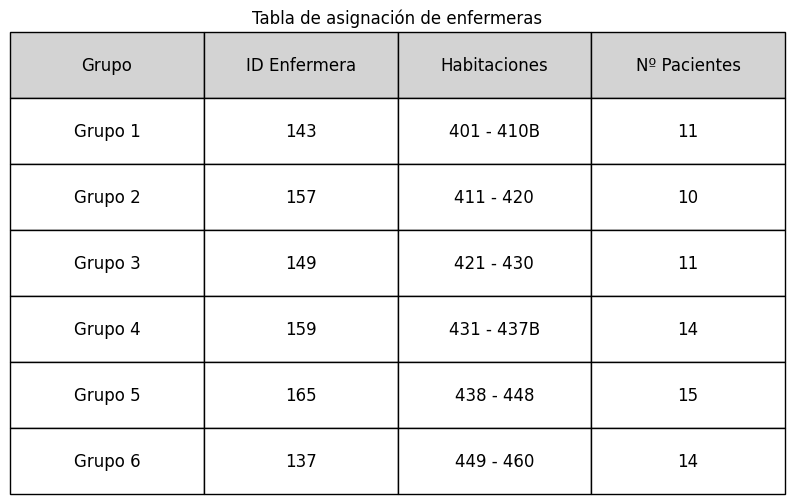
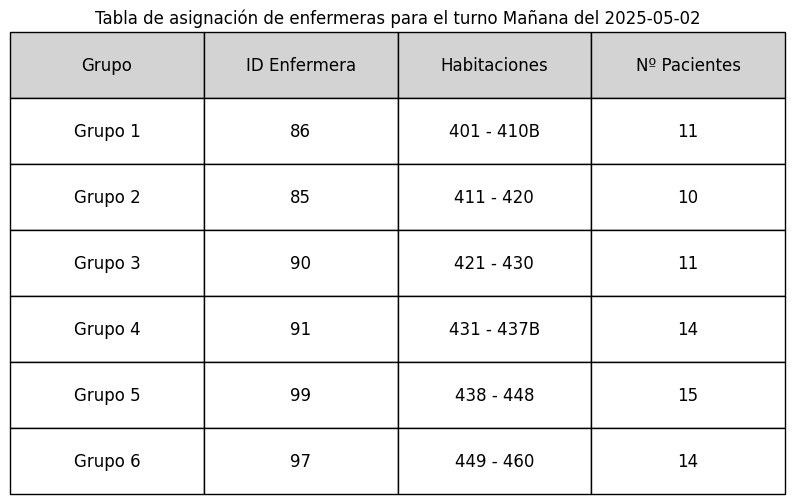
finished interface

diff --git a/hus_project/templates/assignation.html b/hus_project/templates/assignation.html
@@ -4,15 +4,15 @@
 <head>
     <meta charset="UTF-8">
     <meta name="viewport" content="width=device-width, initial-scale=1.0">
-    <title>HUS</title>
+    <title>Asignación Enfermería HUS</title>
     <link rel="stylesheet" href="{% static 'css/styles.css' %}">
 </head>
 <body>
     <main>
         <section class="content">
-            <h1>Resultados de la asignación de enfermeras</h1>
-            <div class="container" style="flex-grow: 1;">
-                <p id="loading" class="loading">Procesando para {{selected_shift}} {{selected_date}}, por favor espere...</p>
+            <h1 id="title" class="hidden">Resultados de la asignación de enfermeras</h1>
+            <div class="container">
+                <p id="loading" class="loading">Procesando para el turno de <b>{{selected_shift}} {{selected_date}}</b>, por favor espere...</p>
                 <img src="{% static 'img/loading.gif' %}" alt="loadingImg" />
             </div>
             <div class="flex-container">
@@ -25,9 +25,6 @@
             </div>
         </section>
     </main>
-    <footer>
-        <p>&copy; 2025 Sistema de Asignación de Enfermeras</p>
-    </footer>
     <script>
         const selectedDate = "{{ selected_date }}";
         const selectedShift = "{{ selected_shift }}";
@@ -40,23 +37,24 @@
                 const loadingImg = document.querySelector('img[alt="loadingImg"]');
                 const image1 = document.getElementById('distributionImg');
                 const image2 = document.getElementById('tableImg');
+                const title = document.getElementById('title');
     
                 if (loading) loading.remove();
                 if (loadingImg) loadingImg.remove();
     
-                const timestamp = new Date().getTime();
+                const timestamp = new Date().getTime(); 
     
                 image1.src = `{% static 'img/rooms.png' %}?t=${timestamp}`;
                 image2.src = `{% static 'img/table.png' %}?t=${timestamp}`;
     
                 image1.style.display = 'block';
-                image2.style.display = 'block';
+                image2.style.display = 'block';                
+                if (title) title.style.display = 'block';
             })
             .catch(error => {
-                document.querySelector('.container').innerHTML = "<p style='color:red;'>Failed to load data.</p>";
+                document.querySelector('.container').innerHTML = "<p style='color:red;'>Error durante el procesamiento.</p>";
                 console.error('Error:', error);
             });
     </script>
-    
 </body>
 </html>

diff --git a/hus_project/templates/index.html b/hus_project/templates/index.html
@@ -4,29 +4,32 @@
 <head>
     <meta charset="UTF-8">
     <meta name="viewport" content="width=device-width, initial-scale=1.0">
-    <title>HUS</title>
+    <title>Asignación Enfermería HUS</title>
     <link rel="stylesheet" href="{% static 'css/styles.css' %}">
 </head>
 <body>
     <main>
         <section class="indexContent">
+            <div class="image-wrapper image-logo">
+                <img id="logo" src="{% static 'img/logo_sureste.png' %}">
+            </div>
             <h2>Asignación de enfermeras</h2>
             <form action="{% url 'assignation' %}" method="post">
                 {% csrf_token %}
-                <label for="date">Seleccione la fecha:</label>
+                <label for="date">Selecione la fecha:</label>
                 <input type="date" id="date" name="date" value="{{ current_date }}" required>
-                <label for="shift">Selecione el Turno:</label>
+                <label for="shift">Selecione el turno:</label>
                 <select id="shift" name="shift" required>
                     <option value="Mañana" {% if current_shift == "M" %}selected{% endif %}>Mañana</option>
                     <option value="Tarde" {% if current_shift == "T" %}selected{% endif %}>Tarde</option>
                     <option value="Noche" {% if current_shift == "N" %}selected{% endif %}>Noche</option>
                 </select>
-                <button type="submit" class="btn">Iniciar Asignación</button>
+                <button type="submit" class="btn">Iniciar Reparto</button>
             </form>
         </section>
     </main>
     <footer>
-        <p>&copy;2025 Sistema de Asignación de Enfermeras</p>
+        <p>&copy;2025 Hospital Universitario del Sureste</p>
     </footer>
 </body>
 </html>

diff --git a/hus_project/static/css/styles.css b/hus_project/static/css/styles.css
@@ -3,7 +3,7 @@ body, html {
     height: 100%;
     margin: 0;
     font-family: Arial, sans-serif;
-    background-color: #f8f9fa;
+    background-color: #e4e7eb;
 }
 
 main {
@@ -29,32 +29,35 @@ main {
     border-radius: 12px;
     box-shadow: 0 0 15px rgba(0, 0, 0, 0.1);
     max-width: 90%;
-    width: 100%;
+    display: flex;
+    flex-direction: column;
+    align-items: center;
 }
 
 h1, h2 {
-    margin: 10px 0;
-    padding-bottom: 20px;
+    margin: 20px 0;
+    padding-bottom: 10px;
 }
 
 .btn {
     padding: 12px 24px;
-    background-color: #007bff;
+    background-color: #0097d3;
     color: white;
     text-decoration: none;
     border-radius: 5px;
     display: inline-block;
     margin-top: 20px;
     transition: background-color 0.3s ease;
+    border: none;
 }
 
 .btn:hover {
-    background-color: #0056b3;
+    background-color: #0097d3;
 }
 
 footer {
     text-align: center;
-    padding: 10px;
+    padding: 20px;
     position: absolute;
     bottom: 0;
     width: 100%;
@@ -66,6 +69,7 @@ footer {
     font-style: italic;
     color: #888;
     margin-top: 20px;
+    padding-bottom: 15px
 }
 
 pre {
@@ -133,9 +137,11 @@ select {
     transition: border-color 0.3s ease;
 }
 
+input[type="date"],
 input[type="date"]:focus,
+select,
 select:focus {
-    border-color: #007bff;
+    font-family: Arial, sans-serif;
     outline: none;
 }
 
@@ -144,4 +150,8 @@ form label {
     text-align: left;
     margin-top: 15px;
     margin-bottom: 5px;
+}
+
+.hidden {
+    display: none;
 }

diff --git a/hus_project/assign_nurses/endpoints/assign.py b/hus_project/assign_nurses/endpoints/assign.py
@@ -5,6 +5,7 @@ from dateutil.relativedelta import relativedelta
 from matplotlib.table import Table
 import matplotlib.pyplot as plt
 from scipy.optimize import linear_sum_assignment
+from . import utils
 
 from django.conf import settings
 save_path = settings.SAVE_PATH
@@ -37,7 +38,7 @@ def count_group_treatments(nurse_id, group, historic):
         count += tratamientos['NUMERO_TRATAMIENTOS'].sum()
     return int(count)
 
-def calculate_cost(group, nurse_id, historic, current_date):
+def calculate_cost(group, nurse_id, historic, query_date):
     cost = 0
     for patient_id in group:
         row = historic[
@@ -47,7 +48,7 @@ def calculate_cost(group, nurse_id, historic, current_date):
 
         if not row.empty:
             date_hist = pd.to_datetime(row.iloc[0]['FECHA_TOMA_MÁS_RECIENTE'])
-            difference = relativedelta(current_date, date_hist)
+            difference = relativedelta(query_date, date_hist)
             months = difference.years * 12 + difference.months
             days = difference.days
             months = months + (days / 30)
@@ -61,7 +62,7 @@ def calculate_cost(group, nurse_id, historic, current_date):
             cost += 4
     return cost
 
-def create_branch_schema(nurses, groups, historial_past_treatments, current_date):
+def create_branch_schema(nurses, groups, historial_past_treatments, query_date):
     # Create cost matrix for Hungarian algorithm
     n = len(nurses)
     cost_matrix = np.zeros((n, n))
@@ -69,7 +70,7 @@ def create_branch_schema(nurses, groups, historial_past_treatments, current_date
     # Fill the cost matrix
     for i, nurse in enumerate(nurses):
         for j, (group_key, group_values) in enumerate(groups.items()):
-            cost = calculate_cost(group_values, nurse, historial_past_treatments, current_date)
+            cost = calculate_cost(group_values, nurse, historial_past_treatments, query_date)
             treatments = count_group_treatments(nurse, group_values, historial_past_treatments)
             # Store cost in matrix
             cost_matrix[i][j] = cost
@@ -117,7 +118,7 @@ def format_mapping(mapping, rooms_lists):
             mapping[f"Grupo {group[1:]}"] = mapping.pop(group)
     return mapping
 
-def create_table(mapping):
+def create_table(mapping, query_date, query_shift):
     output_path = os.path.join(save_path, 'table.png')
     fig, ax = plt.subplots(figsize=(10, 6)) 
     ax.axis('off')
@@ -137,18 +138,19 @@ def create_table(mapping):
 
     ax.add_table(table)
     ax.set_axis_off()
-    plt.title(f'Tabla de asignación de enfermeras')
+    query_shift = utils.parse_shift(query_shift)
+    plt.title(f'Tabla de asignación de enfermeras para el turno {query_shift} del {query_date}')
     plt.savefig(output_path, bbox_inches='tight')
 
-def assign_nurses(distributed_rooms, nurses_list, historic, current_date):
+def assign_nurses(distributed_rooms, nurses_list, historic, query_date, str_date, query_shift):
     # Get a dict of all rooms dictionaries
     all_groups = extract_and_assign_groups(distributed_rooms)
 
     # Merge historic data form 
     historial_past_treatments = merge_historial_resume(historic)
-    best_mapping = create_branch_schema(nurses_list, all_groups, historial_past_treatments, current_date)
+    best_mapping = create_branch_schema(nurses_list, all_groups, historial_past_treatments, query_date)
 
-    create_table(format_mapping(best_mapping, all_groups))
+    create_table(format_mapping(best_mapping, all_groups), str_date, query_shift)
 
     return best_mapping
     

diff --git a/hus_project/assign_nurses/endpoints/rooms.py b/hus_project/assign_nurses/endpoints/rooms.py
@@ -8,6 +8,8 @@ matplotlib.use('Agg')
 import matplotlib.pyplot as plt
 from matplotlib.patches import Rectangle
 
+from . import utils
+
 from django.conf import settings
 save_path = settings.SAVE_PATH
 file_controls = settings.FILE_CONTROLS
@@ -90,7 +92,8 @@ def plot_room_distribution(floor_coord, groups_coords, n_groups, query_date, que
 
             global_group_idx += 1
 
-    plt.title(f'Distribución para el turno {query_shift} del {query_date}')
+    query_shift = utils.parse_shift(query_shift)
+    plt.title(f'Distribución de pasillos para el turno {query_shift} del {query_date}')
     plt.grid(True, color='black', linestyle='--', alpha=0.3)  
     plt.axis('equal')
     plt.savefig(output_path, dpi=300, bbox_inches='tight')

diff --git a/hus_project/assign_nurses/endpoints/utils.py b/hus_project/assign_nurses/endpoints/utils.py
@@ -24,6 +24,12 @@ def parse_date(date_str):
         raise ValueError("Invalid date format. Expected YYYY-MM-DD.")
 
 def parse_shift(shift_str):
-    """ Parse a shift string into a single character. """
+    """ Parse a shift string into its shorthand or full name. """
     shift_map = {'Mañana': 'M', 'Tarde': 'T', 'Noche': 'N'}
-    return shift_map[shift_str]
+    inverse_map = {v: k for k, v in shift_map.items()}
+    if shift_str in shift_map:
+        return shift_map[shift_str]
+    elif shift_str in inverse_map:
+        return inverse_map[shift_str]
+    else:
+        raise ValueError("Invalid shift. Expected 'M', 'T', 'N' or 'Mañana', 'Tarde', 'Noche'.")

diff --git a/hus_project/assign_nurses/run_assignation.py b/hus_project/assign_nurses/run_assignation.py
@@ -1,5 +1,4 @@
 import time
-from . import utils
 from .endpoints.nurses import get_nurse_shift
 from .endpoints.historic import get_historic
 from .endpoints.rooms import distribute_rooms
@@ -30,7 +29,7 @@ def main(query_date, query_shift):
 
     # Assign nurses to the distributed rooms given historic data
     assign_start = time.time()
-    best_mapping = assign_nurses(distributed_rooms, nurses, historic, query_date)
+    best_mapping = assign_nurses(distributed_rooms, nurses, historic, query_date, str_date, query_shift)
     print(f"[INFO]: assign_nurses took {time.time() - assign_start:.2f} seconds")
 
     print(f"[INFO]: Asignación: \n {best_mapping}")

diff --git a/hus_project/assign_nurses/views.py b/hus_project/assign_nurses/views.py
@@ -2,7 +2,7 @@ from django.shortcuts import redirect
 from django.shortcuts import render
 from django.http import JsonResponse
 from . import run_assignation
-from . import utils
+from .endpoints import utils
 
 def index(request):
     current_date, current_shift = utils.get_current_query_params()
